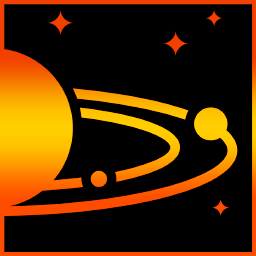
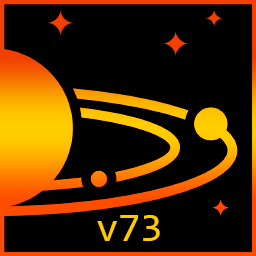
Added a preloader patcher to fix the previous LLL version being the one that gets serialized. - Also rebranded project to 'LethalLevelLoaderUpdated' for this fork.

Changed region(s): [[0.375, 0.8125, 0.625, 0.9688]]

diff --git a/LethalLevelLoader.Patcher/LethalLevelLoaderPatcher.cs b/LethalLevelLoader.Patcher/LethalLevelLoaderPatcher.cs
@@ -1,0 +1,36 @@
+using Mono.Cecil;
+using System.Collections.Generic;
+
+using static FixPluginTypesSerialization.FixPluginTypesSerializationPatcher;
+
+namespace LethalLevelLoader.Patcher
+{
+    public class LethalLevelLoaderPatcher
+    {
+        public static IEnumerable<string> TargetDLLs { get; } = [];
+
+        public static void Initialize()
+        {
+            InitializeInternal();
+        }
+
+        /// <summary>
+        ///     Admittedly a bit wonky, but it works.
+        /// </summary>
+        /// <remarks>This'll need to be removed once <c>LethalLevelLoader</c> updates.</remarks>
+        private static void InitializeInternal()
+        {
+            // Check if the old LethalLevelLoader is found in FixPluginTypesSerialization's list of found plugins.
+            int oldLLL = PluginPaths.FindIndex(name => name.Contains("IAmBatby-LethalLevelLoader"));
+
+            if (oldLLL != -1)
+            {
+                // Remove old LethalLevelLoader from the list(s) of plugins to serialize.
+                PluginPaths.RemoveAt(oldLLL);
+                PluginNames.RemoveAt(oldLLL);
+            }
+        }
+
+        public static void Patch(AssemblyDefinition _) { }
+    }
+}

diff --git a/README.md b/README.md
@@ -1,5 +1,9 @@
-**LethalLevelLoader**
+**LethalLevelLoaderUpdated**
 --
+
+> **NOTE:** This is a temporary upload of [LethalLevelLoader](https://thunderstore.io/c/lethal-company/p/IAmBatby/LethalLevelLoader) ([MIT](https://raw.githubusercontent.com/IAmBatby/LethalLevelLoader/b629d1db2256f60588e96996e9702d8c7c0b034e/LICENSE.md)) updated for the latest versions of the game (`v73` and above), while the [pull request](https://github.com/IAmBatby/LethalLevelLoader/pull/190) is still under review. This package will be deprecated the moment an update is finalized and released.
+
+---
 
 **A Custom API to support the manual and dynamic integration of all forms of custom content in Lethal Company.**
 

diff --git a/LICENSE.md b/LICENSE.md
@@ -1,6 +1,6 @@
 MIT License
 
-Copyright (c) 2024 IAmBatby
+Copyright (c) 2025 IAmBatby
 
 Permission is hereby granted, free of charge, to any person obtaining a copy
 of this software and associated documentation files (the "Software"), to deal
